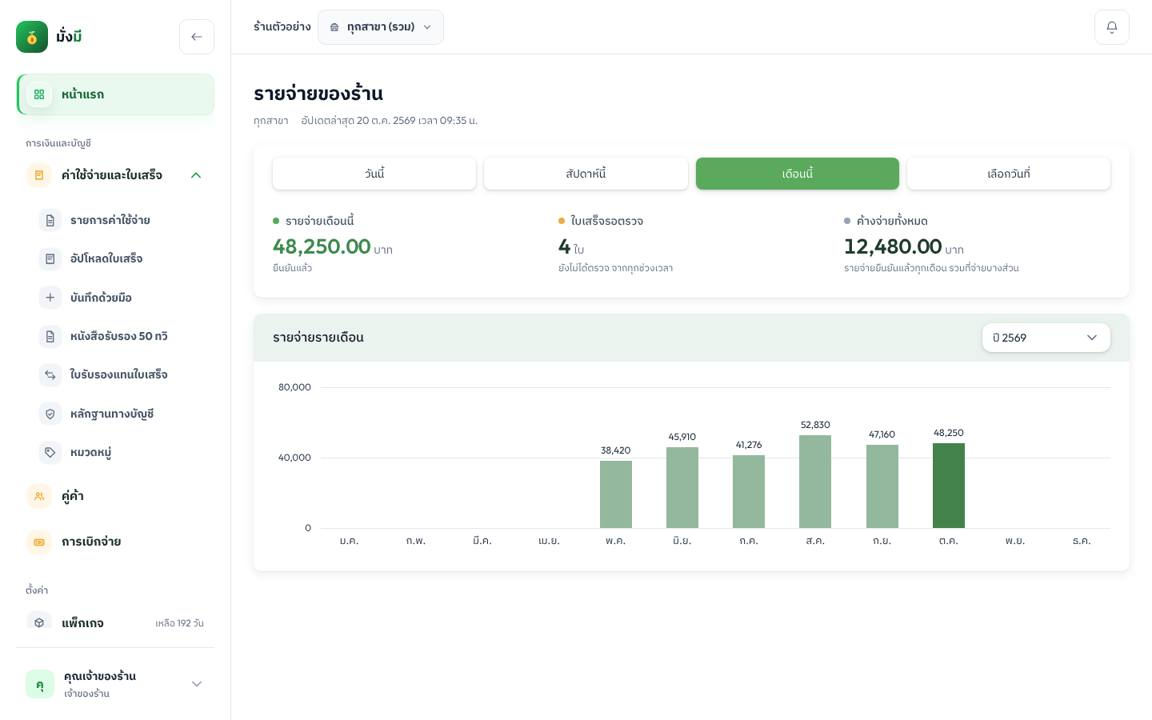
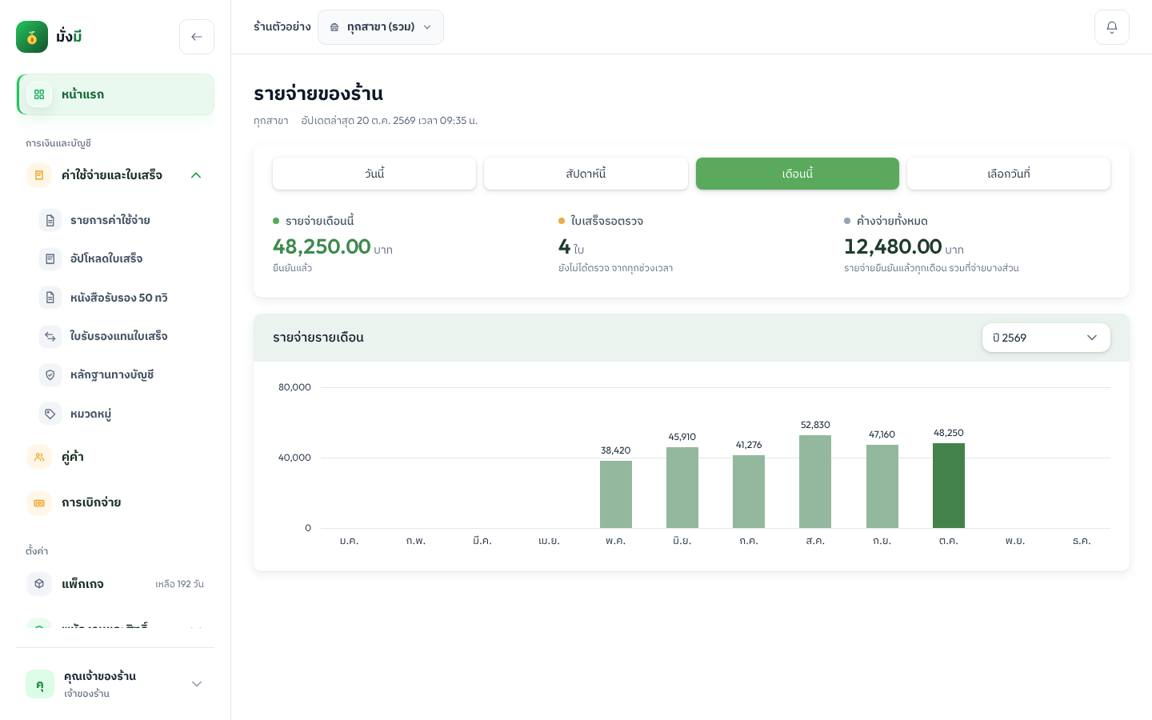
docs: v3 dashboard image hides the manual-entry menu like the product default
Re-rendered from the real web code with the shop's manual web entry
setting at its default (hidden), instead of retouching the image.

Claude-Session: https://claude.ai/code/session_01J7ScAcuHmAWY52w61WzGcF

diff --git a/docs/agent-memory/mangmee-main-website-prototype-2026-10-20.md b/docs/agent-memory/mangmee-main-website-prototype-2026-10-20.md
@@ -347,3 +347,10 @@ Decisions:
 - A dashboard-markup cut left one stray </div> and broke the layout (mobile scrollWidth 482); caught by section measurements and the tag-balance check; fixed.
 - Test numbers from a read-only audit of docs/specs/research/agent-memory, ci.yml and spec counts: advisor 2,624 code-graded question-runs (223×10 + 71×2 + 183 S1 + 69 S2a); real documents sent to the model 60 (38 UAT receipts 2026-08-28, totals 30/38 with some wrong labels; 15 customer images 2026-09-08, 14/14 printed-total images = 13 documents; 7 public docs 2026-09-19); 5,273 test declarations around AI/documents, run by ci.yml on every PR into main/develop (about 12 PostgreSQL AI specs only in manual extended-tests); 48 frozen attack cases are deterministic rule checks in CI, not model tests; real-model scope refusals 40/40 + 12/12. Not claimed: population accuracy, production/UAT accuracy, October "independent exam" results (untracked), model-tested prompt injection.
 Verification: Chromium 1440/390 no overflow (home 8496 / 14873; pricing 3103 / 5429); tags balanced; scroll test 0 transparent sections; no lin.ee/6Sc38L6 or simulated-data captions left; pipeline r13 → r14 → r14_docs → faq → r15 reproduces Main byte-for-byte; canvas version 26.
+
+## Revision 3p — dashboard without the manual-entry menu
+
+Status: Complete — prototype only.
+Trigger: Owner: remove "บันทึกด้วยมือ" from the dashboard image.
+Decision: re-rendered with the product default rather than editing pixels — the shop setting "แสดงเมนูบันทึกด้วยมือบนเว็บ" defaults to hidden (`MANUAL_EXPENSE_WEB_ENTRY_WITHOUT_ROW = false`, apps/api/src/modules/system-partner-management/domain/logic/manual-expense-web-entry.logic.ts:12; web gate `canOpenManualWeb`, apps/web/src/features/expenses/manual-expense-entry.logic.ts:24). Mocked session reads `manualExpenseWebEntryState(null)` like GET /auth/me.
+Verification: new 1440 shot shows the sidebar without the item, rest unchanged; home 1440/390 no overflow (8496 / 14873); repo tree unchanged by the render; canvas version 27.
